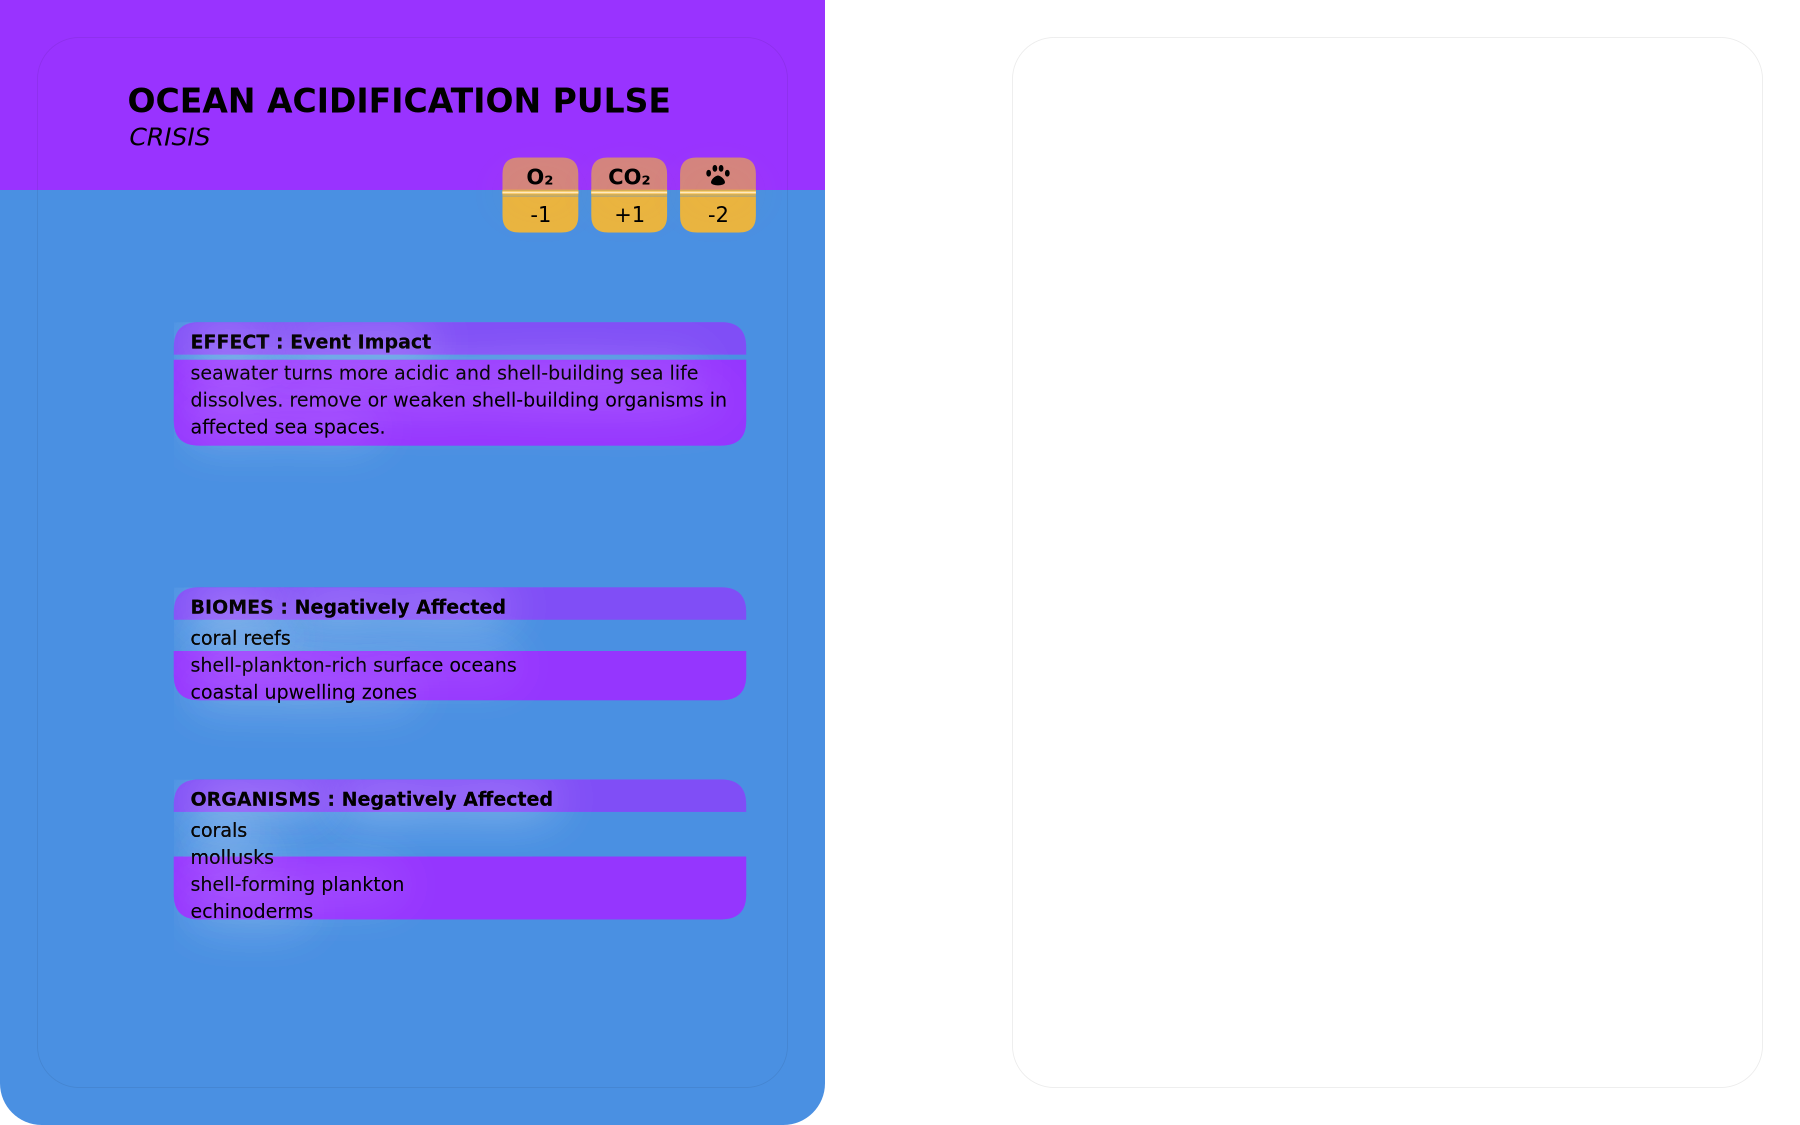
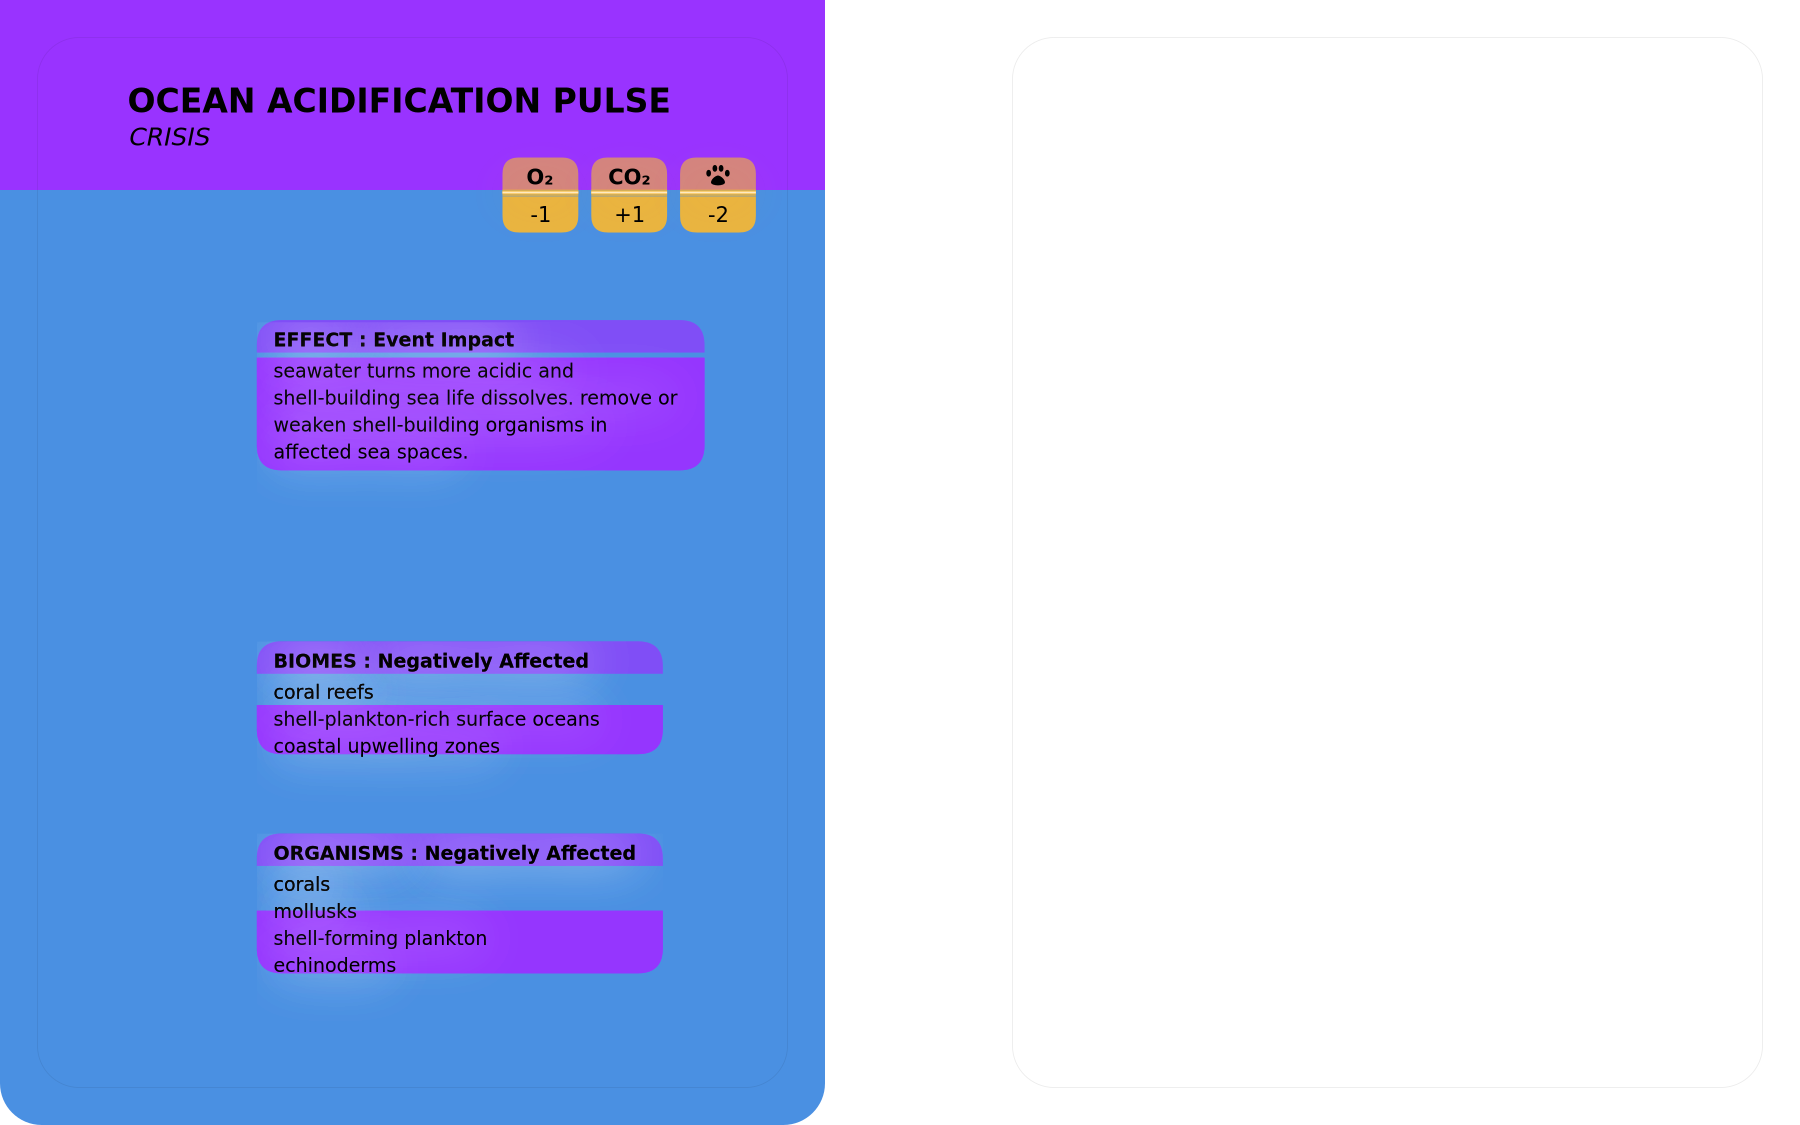
feat: Adjust layout for event card fields with improved positioning and width calculations

Changed region(s): [[0.0933, 0.4978, 0.4356, 0.8711], [0.0933, 0.28, 0.4356, 0.4356]]

diff --git a/game/lib/event-cards/draw-field-row.js b/game/lib/event-cards/draw-field-row.js
@@ -17,7 +17,10 @@ module.exports = function drawFieldRow(ctx, { textX, rowY, scale, color, titleCo
   const boxPadY   = 2 * scale;
   const boxRadius = 6 * scale;
   const lineGap   = Math.round(2 * scale);
-  const subY      = rowY + fieldSize + lineGap;
+  
+  // For Effect field, calculate adjusted row position (moved up 0.5px)
+  const adjustedRowY = label === 'Effect' ? rowY - (0.5 * scale) : rowY;
+  const subY      = adjustedRowY + fieldSize + lineGap;
 
   // Normalize label (ALL CAPS) and sub (lowercase, preserve Ma/Ga)
   const displayLabel = label.toUpperCase();
@@ -45,56 +48,92 @@ module.exports = function drawFieldRow(ctx, { textX, rowY, scale, color, titleCo
   const line1W = labelPartW + mainW;
   const contentW = maxWidth ? Math.min(Math.max(line1W, subW), maxWidth) : Math.max(line1W, subW);
   
+  // Calculate box width and reduce by 20px to make fields narrower
+  const boxW = contentW + 2 * boxPadX - (20 * scale);
+  
+  // For Effect field, add 10px to the right
+  const effectBoxW = label === 'Effect' ? boxW + (10 * scale) : boxW;
+  
+  // Calculate actual available width for text within the bottom background
+  const boxWForWidth = label === 'Effect' ? effectBoxW : boxW;
+  const actualTextWidth = boxWForWidth - 2 * boxPadX;
+  
+  // Re-wrap text using actual available width within the background box
+  if (displaySub && actualTextWidth > 0) {
+    ctx.font = `${subSize}px "DejaVu Sans", sans-serif`;
+    wrappedSubLines = wrapText(ctx, displaySub, actualTextWidth, subSize);
+  }
+  
   // Top background: label line plus ~2px below
   const topBoxH = fieldSize + (7 * scale) + 2 * boxPadY;
   
   // Bottom background: covers all wrapped lines with proper padding
   let bottomBoxH = 0;
-  if (displaySub) {
+  if (displaySub && wrappedSubLines.length > 0) {
+    // Calculate minimum height needed to contain all wrapped text
+    const textLineHeight = wrappedSubLines.length * subSize;
+    const textGapHeight = Math.max(0, wrappedSubLines.length - 1) * lineGap;
+    const requiredHeight = textLineHeight + textGapHeight + (4 * scale); // padding top and bottom
+    
     if (label === 'Effect') {
-      // Effect field: double height to cover all description text
-      bottomBoxH = ((2 * scale) + (wrappedSubLines.length * (subSize + lineGap)) - lineGap + (2 * scale)) * 2;
+      // Effect field: double the required height to cover all description text
+      bottomBoxH = Math.max(requiredHeight * 2, ((2 * scale) + (wrappedSubLines.length * (subSize + lineGap)) - lineGap + (2 * scale)) * 2);
     } else {
-      // Other fields: standard height
-      bottomBoxH = ((wrappedSubLines.length * (subSize + lineGap)) - lineGap + (4 * scale) + 2 * boxPadY);
+      // Other fields: use required height or calculated height, whichever is larger
+      bottomBoxH = Math.max(requiredHeight, ((wrappedSubLines.length * (subSize + lineGap)) - lineGap + (4 * scale) + 2 * boxPadY));
     }
   }
-  
-  const boxW = contentW + 2 * boxPadX;
 
   // Background (isolated save/restore)
   ctx.save();
-  drawTop(ctx, textX - boxPadX, rowY - boxPadY, boxW, topBoxH, boxRadius, color, hexToRgba, 0.45);
+  const topBoxW = label === 'Effect' ? effectBoxW : boxW;
+  drawTop(ctx, textX - boxPadX, adjustedRowY - boxPadY, topBoxW, topBoxH, boxRadius, color, hexToRgba, 0.45);
   ctx.restore();
 
   // Draw bottom background if there's sub text
   if (bottomBoxH > 0) {
     ctx.save();
-    // For Effect field, move bottom background up 30px and then down 1px
+    // For Effect field, move bottom background up 30px, down 1px, then up 7px
     // For Biomes and Organisms fields, move bottom background up 30px, down 1px, then down 15px
     let bottomY;
     if (label === 'Effect') {
-      bottomY = rowY - boxPadY + topBoxH - (30 * scale) + (1 * scale);
+      bottomY = rowY - boxPadY + topBoxH - (30 * scale) + (1 * scale) - (7 * scale);
     } else if (label === 'Biomes' || label === 'Organisms') {
       bottomY = rowY - boxPadY + topBoxH - (30 * scale) + (1 * scale) + (15 * scale);
     } else {
       bottomY = rowY - boxPadY + topBoxH;
     }
-    drawBottom(ctx, textX - boxPadX, bottomY, boxW, bottomBoxH, boxRadius, color, hexToRgba, 0.8);
+    const bottomBoxW = label === 'Effect' ? effectBoxW : boxW;
+    drawBottom(ctx, textX - boxPadX, bottomY, bottomBoxW, bottomBoxH, boxRadius, color, hexToRgba, 0.8);
     ctx.restore();
   }
 
+  // Calculate total clipping height to account for overlapping/offset bottom boxes
+  let totalClipHeight = topBoxH + bottomBoxH;
+  if (bottomBoxH > 0) {
+    if (label === 'Effect') {
+      // Effect box overlaps - calculate actual extent
+      const effectBottomEnd = topBoxH - (30 * scale) + (1 * scale) + bottomBoxH;
+      totalClipHeight = Math.max(topBoxH + bottomBoxH, effectBottomEnd);
+    } else if (label === 'Biomes' || label === 'Organisms') {
+      // Biomes/Organisms box overlaps - calculate actual extent
+      const otherBottomEnd = topBoxH - (30 * scale) + (1 * scale) + (15 * scale) + bottomBoxH;
+      totalClipHeight = Math.max(topBoxH + bottomBoxH, otherBottomEnd);
+    }
+  }
+
   // Clip text to within both background boxes so it never overflows
+  const clipBoxW = label === 'Effect' ? effectBoxW : boxW;
   ctx.beginPath();
-  ctx.rect(textX - boxPadX, rowY - boxPadY, boxW, topBoxH + bottomBoxH);
+  ctx.rect(textX - boxPadX, rowY - boxPadY, clipBoxW, totalClipHeight);
   ctx.clip();
 
   // Line 1: "Bold Label: " then bold "Main Value"
   ctx.shadowColor = '#FFFFFF';
   ctx.shadowBlur = 10 * scale;
   ctx.font = `bold ${fieldSize}px "DejaVu Sans", sans-serif`;
-  ctx.fillText(labelPart, textX, rowY);
-  ctx.fillText(main, textX + labelPartW, rowY);
+  ctx.fillText(labelPart, textX, adjustedRowY);
+  ctx.fillText(main, textX + labelPartW, adjustedRowY);
 
   // Lines 2+: wrapped sub description, smaller
   if (wrappedSubLines.length > 0) {

diff --git a/game/lib/event-cards/functional-category-event.js b/game/lib/event-cards/functional-category-event.js
@@ -18,10 +18,10 @@ module.exports = function drawEventFields(ctx, contentX, contentY, contentW, con
   const fields = card._eventFields || [];
   if (!fields.length) return;
 
-  const textX = contentX + Math.round(21 * scale);
+  const textX = contentX + Math.round(21 * scale) + Math.round(20 * scale);
   const fieldGap = Math.round(5 * scale); // 5px gap between fields
   const color = card.neonColor;  // Event-type color
-  const maxTextWidth = contentW - Math.round(21 * scale) - Math.round(8 * scale);
+  const maxTextWidth = contentW - Math.round(21 * scale) - Math.round(20 * scale) - Math.round(8 * scale);
 
   const { drawTop, drawBottom } = getEventBackgroundFunctions();
 
